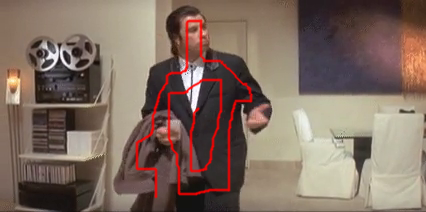
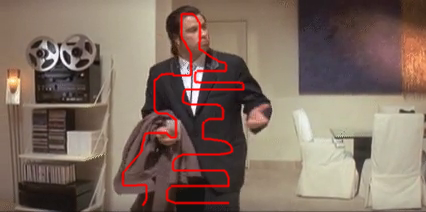
guided filter now also filters temporally, i.e. between neighboring frames in temporal radius rt

Changed region(s): [[0.2746, 0.0566, 0.6103, 0.9906]]

diff --git a/task1/src/boxfilter_vid.m b/task1/src/boxfilter_vid.m
@@ -5,27 +5,37 @@
 %   - Equivalent to the function: colfilt(imSrc, [2*r+1, 2*r+1], 'sliding', @sum);
 %   - But much faster.
 function vidDst = boxfilter_vid(vidSrcC, r, rt)
+% r .. filter radius (manhattan distance)
+% rt .. filter radius in time (how many neighboring frames included)
+
     % the size of each local patch; N=(2r+1)^3 except for boundary pixels.
-    [hei, wid, time] = size(vidSrcC);
+    [hei, wid, frames] = size(vidSrcC);
     vidDst = zeros(size(vidSrcC));
     
-    for i=1:rt
-        
+    for i=1:frames
+                
         imDst = zeros(size(vidSrcC));
         % cumulative sum over Y axis
         imCum = cumsum(vidSrcC, 1);
         
         % difference over Y axis
-        imDst(1:r+1, :, :) = imCum(1+r:2*r+1, :, :);
+        imDst(1:r+1, :, :) = imCum(1+r:2*r+1, :, :); % left edge case (margin of size of radius)
         imDst(r+2:hei-r, :, :) = imCum(2*r+2:hei, :, :) - imCum(1:hei-2*r-1, :, :);
-        imDst(hei-r+1:hei, :, :) = repmat(imCum(hei, :, :), [r, 1]) - imCum(hei-2*r:hei-r-1, :, :);
+        imDst(hei-r+1:hei, :, :) = repmat(imCum(hei, :, :), [r, 1]) - imCum(hei-2*r:hei-r-1, :, :); % right edge case (margin of size of radius)
 
         % cumulative sum over X axis
         imCum = cumsum(imDst, 2);
-        % difference over Y axis
-        imDst(:, 1:r+1,:) = imCum(:, 1+r:2*r+1,:);
+        % difference over X axis
+        imDst(:, 1:r+1,:) = imCum(:, 1+r:2*r+1,:);  % left edge case (margin of size of radius)
         imDst(:, r+2:wid-r,:) = imCum(:, 2*r+2:wid,:) - imCum(:, 1:wid-2*r-1,:);
         imDst(:, wid-r+1:wid,:) = repmat(imCum(:, wid,:), [1, r]) - imCum(:, wid-2*r:wid-r-1,:);
+        
+        % cumulative sum over Z axis
+        imCum = cumsum(imDst, 3);
+        % difference over Z axis
+        imDst(:, :, 1:rt+1) = imCum(:, :, 1+rt:2*rt+1);
+        imDst(:, :, rt+2:frames-rt) = imCum(:, :, 2*rt+2:frames) - imCum(:,:,1:frames-2*rt-1);
+        imDst(:, :, frames-rt+1:frames) = repmat(imCum(:, :, frames), [1, 1, rt]) - imCum(:,:,frames-2*rt:frames-rt-1);
         
         vidDst(:,:,i) = imDst(:,:,i);
         

diff --git a/task1/src/segmentation.m b/task1/src/segmentation.m
@@ -5,7 +5,7 @@ function foreground_map = segmentation(frames,fg_scribbles,Hfc,Hbc,bins)
 % Hbc .. color histogram of background pixels with colors grouped into bins
 % numbins .. the number of bins per channel to aggregate colors in histograms
 
-    [size_y, size_x, size_col, size_frame] = size(frames(:,:,:,:));
+    [size_y, size_x, size_col, num_frames] = size(frames(:,:,:,:));
     cost_volume = zeros(size_y, size_x, size_col);
 
     %----------------------------------------------------------------------
@@ -14,7 +14,7 @@ function foreground_map = segmentation(frames,fg_scribbles,Hfc,Hbc,bins)
    
     % To calculate the cost-volume matrice we need to visit each pixel of 
     % the frame, and for each one calculate the cost-volume.
-    for frame_counter=1:size_frame
+    for frame_counter=1:num_frames
         for count_y=1:size_y
             for count_x=1:size_x
                 
@@ -36,9 +36,10 @@ function foreground_map = segmentation(frames,fg_scribbles,Hfc,Hbc,bins)
     %----------------------------------------------------------------------
     % Task e: Filter cost-volume with guided filter
     %----------------------------------------------------------------------
-    rt = size_frame;
+    filter_radius = 20;
+    filter_radius_frames = 5;
     eps = 0.00001;
-    cost_volume_filtered = guidedfilter_vid_color(frames, cost_volume, 3, rt, eps);
+    cost_volume_filtered = guidedfilter_vid_color(frames, cost_volume, filter_radius, filter_radius_frames, eps);
     
     cost_volume_filtered(isnan(cost_volume_filtered))=0;
     
@@ -58,7 +59,7 @@ function foreground_map = segmentation(frames,fg_scribbles,Hfc,Hbc,bins)
     %----------------------------------------------------------------------
 
     % apply guided filter again to feather edges
-    fg_binary_map = guidedfilter_vid_color(frames, connected_map, 3, rt, eps);
+    fg_binary_map = guidedfilter_vid_color(frames, connected_map, filter_radius, filter_radius_frames, eps);
     
     fg_binary_map(isnan(fg_binary_map))=0;
     fg_binary_map = floor(fg_binary_map.*threshold);

diff --git a/task1/src/guidedfilter_vid_color.m b/task1/src/guidedfilter_vid_color.m
@@ -1,9 +1,10 @@
-%   GUIDEDFILTER_COLOR   O(1) time implementation of guided filter using a color image as the guidance.
+% GUIDEDFILTER_COLOR   O(1) time implementation of guided filter using a color image as the guidance.
 %
-%   - guidance image: I (should be a color (RGB) video)
-%   - filtering input image: p (should be a gray-scale/single channel video)
-%   - local window radius: r
-%   - regularization parameter
+% I   .. guidance image (should be a color (RGB) video)
+% p   .. filtering input image (should be a gray-scale/single channel video)
+% r   .. local filter window radius
+% rt  .. window radius in time (how many neighboring frames included)
+% eps .. regularization parameter to avoid division by zero
 
 function q = guidedfilter_vid_color(I_vid, p_vid, r, rt, eps)
     [hei, wid, dim, time] = size(I_vid);
@@ -46,7 +47,7 @@ function q = guidedfilter_vid_color(I_vid, p_vid, r, rt, eps)
     a_r = zeros(hei, wid, time);
     a_g = zeros(hei, wid, time);
     a_b = zeros(hei, wid, time);
-    temp = eps * eye(3);
+    epsMat = eps * eye(3);
     for t=1:time
         for y=1:hei
             for x=1:wid        
@@ -57,7 +58,7 @@ function q = guidedfilter_vid_color(I_vid, p_vid, r, rt, eps)
 
                 cov_Ip = [cov_Ip_r(y, x, t), cov_Ip_g(y, x, t), cov_Ip_b(y, x, t)];        
 
-                as = cov_Ip/(Sigma + temp); 
+                as = cov_Ip/(Sigma + epsMat); 
 
                 a_r(y,x,t)= as(1);
                 a_g(y,x,t)= as(2);

diff --git a/task1/src/exercise1.m b/task1/src/exercise1.m
@@ -41,9 +41,9 @@ function exercise1(input_directory, output_directory, file_extension)
     end 
     
     frames = [];
-    count=0;
+    count = 0;
     loop_cnt = 0;
-    loop_size= 22;
+    loop_size = 22; % frame batch size for segmentation
 
     for j = 1:(numel(file_list))
         frame_name = file_list(j).name;
@@ -60,6 +60,7 @@ function exercise1(input_directory, output_directory, file_extension)
         % cache frames
         frames(:,:,:,count) = uint8(frame(:,:,:));
               
+        % do segmentation in batches
         % every <loop_size> frames run segmentation
         if (((mod(count, loop_size)) == 0) || (j==(numel(file_list)-3)))
             %--------------------------------------------------------------
